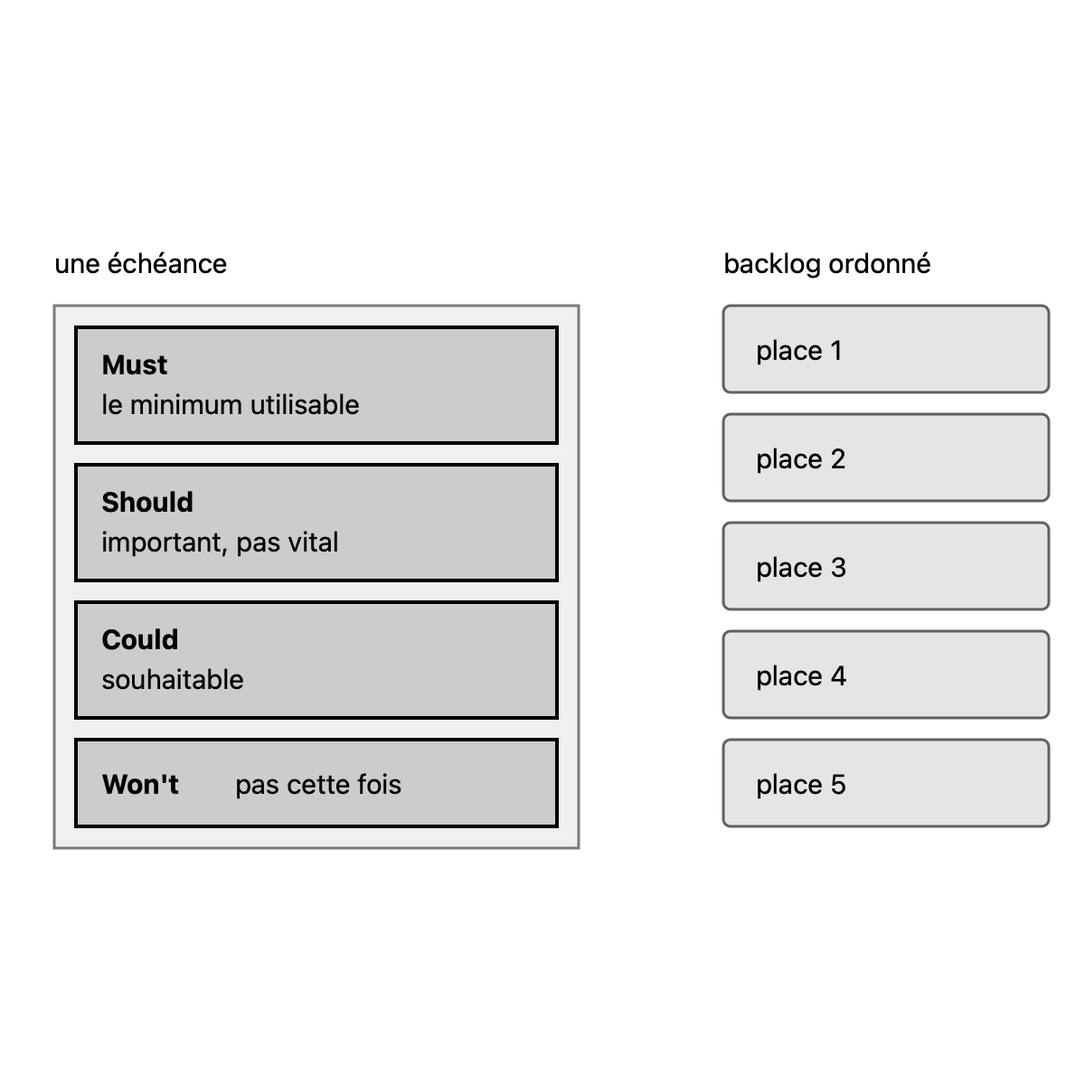
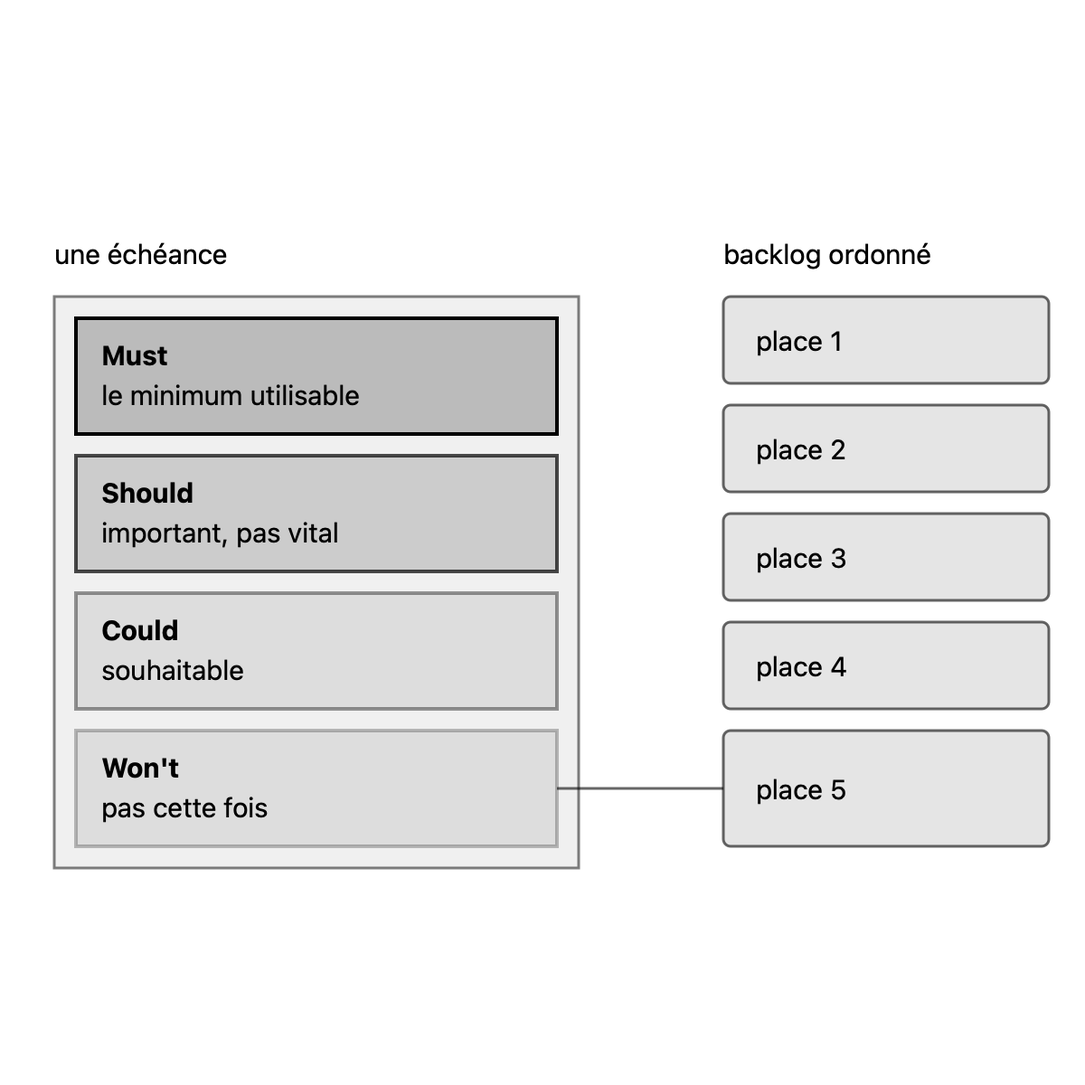
course(course:parcours-po): fix the review findings of concept 13

Changed region(s): [[0.0308, 0.2158, 0.6475, 0.8017], [0.6475, 0.2158, 0.9867, 0.8017]]

diff --git a/courses/parcours-po/concepts/13-ordonner-backlog/sources.md b/courses/parcours-po/concepts/13-ordonner-backlog/sources.md
@@ -1,6 +1,6 @@
 Ce fichier couvre ce que le fichier du concept affirme (`concepts/01-produit-et-po/sources.md` et
 `concepts/03-backlog-produit/sources.md` renvoient ici la source des critères pour ordonner). Les faits du fil rouge (Maud, Étienne, Charlotte, Pia, la DSI, le bilan
-au conseil, fait F-a) sont inventés et n'ont pas de source.
+au conseil) sont inventés et n'ont pas de source.
 
 ## Affirmations
 
@@ -9,19 +9,19 @@ au conseil, fait F-a) sont inventés et n'ont pas de source.
 | Le PO répond de l'ordre du backlog (L'essentiel, Consensus et choix d'école, 13a) | [S1] | « Ordering Product Backlog items » figure parmi les quatre points de « effective Product Backlog management » dont le PO répond. Déjà enseigné en 1b et 3a (`concepts/01-produit-et-po/concept.md`, `concepts/03-backlog-produit/concept.md`) : renvoi, pas de réenseignement | consensus |
 | Le Scrum Guide 2020 confie l'ordre au PO sans dire comment ordonner (Consensus et choix d'école, 13a) | [S1] | Texte téléchargé et cherché (« order », « ordering », « ordered », « risk », « dependenc », « size ») : aucune phrase ne donne de critère pour ordonner. Seules mentions : le PO « orders the work », l'ordre est un attribut que le travail de préparation ajoute (« a description, order, and size »), et au Sprint Planning le PO prépare « the most important Product Backlog items and how they map to the Product Goal » | consensus |
 | Les versions antérieures du Scrum Guide nommaient des critères, retirés depuis (Consensus et choix d'école, 13a) | [S2], [S3], [S4] | Guide d'octobre 2011, p. 13 : « The Product Backlog is often ordered by value, risk, priority, and necessity. » (« often » : une pratique courante, pas une règle). Guide de 2010 (copie tierce) : « Priority is driven by risk, value, and necessity. » Guides de 2013, 2016 et 2017 : la phrase a disparu ; il reste les attributs « description, order, estimate and value ». Guide 2020 : aucun critère. Le passage de « prioritized » à « ordered » date de 2011 [S5] (déjà sourcé en 3a) | consensus |
-| L'ordre se justifie par l'objectif produit (13a) | [S1] | « The Product Goal is in the Product Backlog » ; « the most important Product Backlog items and how they map to the Product Goal ». Déjà sourcé en 3a (choix du cours) : renvoi | cours |
-| Qui veut changer l'ordre convainc le PO ; pas de vote (Consensus et choix d'école ; 13a ; Banque d'exemples) | [S1] | « Those wanting to change the Product Backlog can do so by trying to convince the Product Owner » ; « the entire organization must respect their decisions. These decisions are visible in the content and ordering of the Product Backlog ». Que l'ordre d'arrivée ou la voix la plus forte ne soient pas des critères : choix du cours à partir de ces phrases et des critères ci-dessous. Déjà enseigné en 1b : renvoi | consensus |
+| L'ordre se justifie par l'objectif produit (13a) | [S1] ; `concepts/03-backlog-produit/sources.md` | « The Product Goal is in the Product Backlog » ; « the most important Product Backlog items and how they map to the Product Goal ». Déjà sourcé en 3a (choix du cours) : renvoi | cours |
+| Qui veut changer l'ordre convainc le PO ; pas de vote (Consensus et choix d'école ; 13a ; Banque d'exemples) | [S1] ; `concepts/01-produit-et-po/sources.md` | « Those wanting to change the Product Backlog can do so by trying to convince the Product Owner » ; « the entire organization must respect their decisions. These decisions are visible in the content and ordering of the Product Backlog ». Que l'ordre d'arrivée ou la voix la plus forte ne soient pas des critères : choix du cours à partir de ces phrases et des critères ci-dessous. Déjà enseigné en 1b : renvoi | consensus |
 | Le PO peut porter les besoins de plusieurs parties prenantes dans le backlog (13a, demandes de Maud, Étienne, Charlotte, Pia) | [S1] | « The Product Owner may represent the needs of many stakeholders in the Product Backlog. » | consensus |
 | Le coût vient des Developers : ce sont eux qui estiment (L'essentiel, 13a) | [S1], [S2], [S4], [S8] | SG 2020 : « The Developers who will be doing the work are responsible for the sizing. » SG 2011 à 2017 : « The Development Team is responsible for all estimates. » Les deux : le PO peut influencer les Developers « by helping them understand and select trade-offs ». Le PO se sert des estimations pour ordonner : Rubin, « The product owner uses these estimates to help determine a product backlog item's priority » [S8] | consensus |
 | La prévision « pour quand ? » n'est pas l'objet du concept (Consignes) | [S1] | SG 2020 : « Various practices exist to forecast progress, like burn-downs, burn-ups, or cumulative flows. » Le concept 16 portera cette source |  |
 | Critères pour ordonner : valeur, coût, risque, dépendances ; une pratique établie, pas le texte du Scrum Guide (L'essentiel, Consensus et choix d'école, 13a) | [S6] ; [S2] ; [S7] ; [S19] | Mountain Goat Software (Cohn), cinq facteurs : « Value », « Cost », « Learning », « Risk », « Dependencies ». Le cours en retient quatre ; l'apprentissage (ce que l'équipe apprend en faisant l'élément) relève du concept 17 (hypothèses et exploration) : à nommer comme cinquième facteur chez Cohn si l'apprenant le demande, sans l'enseigner ici. Le Scrum Guide de 2011 nommait déjà valeur et risque [S2]. Appui indépendant de Cohn : Roman Pichler [S19] pèse « value », « risk and uncertainty », « releasability » et « dependencies » (pas le coût en tant que tel ; les dépendances « influence the effort estimates ») ; Rubin relie l'estimation de taille à la place de l'élément [S8], mais son chapitre 6 ne donne pas de liste de critères. Pratique établie (Cohn, Pichler, reprises en [S7]), étiquetée comme telle : aucun texte de consensus ne l'impose | consensus |
 | Valeur : ce que l'élément apporte, rapporté à l'objectif produit (13a) | [S6], [S1] | Cohn : « Value is a measure of the usefulness or impact on a particular audience. » Rapporter la valeur à l'objectif produit : choix du cours (SG : « how they map to the Product Goal ») ; glossaire, ligne « Valeur » | cours |
 | Coût : surtout l'effort de l'équipe (13a) | [S6] | « The largest cost is usually the product team's effort to develop a feature. » La page ne dit pas qui estime ; c'est le Scrum Guide qui le dit (voir plus haut) | consensus |
-| Risque : un élément risqué qu'il faut faire se fait tôt (13a) | [S6] | « If something is risky and you need to do it, do it early. » Chez Cohn, le risque porte sur la réussite du produit (technique, calendrier) ; Pichler : « uncertain and risky items should be high priority » [S19]. Un risque de sécurité pour les abonnés (vélo signalé louable) est un autre sens du mot : le fichier du concept distingue les deux (risque pour le produit, risque pour les utilisateurs), voir la ligne suivante | consensus |
+| Risque : un élément risqué qu'il faut faire se fait tôt (13a) | [S6] ; [S19] | « If something is risky and you need to do it, do it early. » Chez Cohn, le risque porte sur la réussite du produit (technique, calendrier) ; Pichler : « uncertain and risky items should be high priority » [S19]. Un risque de sécurité pour les abonnés (vélo signalé louable) est un autre sens du mot : le fichier du concept distingue les deux (risque pour le produit, risque pour les utilisateurs), voir la ligne suivante | consensus |
 | Un risque de sécurité peut passer devant l'objectif produit, sans que le PO juge seul de sa gravité : Maud, puis Odile, la qualifient (13a ; Banque d'exemples) | [S9] en partie ; aucune pour le reste | DSDM range en Must Have ce sans quoi la livraison serait « Unsafe without it » ou « Not legal without it » [S9] : appui indirect, dans un autre cadre (MoSCoW pour une échéance). Que la gravité soit un fait métier que le PO fait qualifier par Maud (responsable maintenance) et Odile (directrice des opérations, qui encadre la maintenance) : choix du cours (l'apprenant ne tranche jamais un fait métier ; fil rouge, acteurs) ; voir « Non vérifié » | cours |
-| Dépendances : l'élément dont un autre dépend remonte (13a) | [S6] | « Some items may not be high priority on their own, but they're necessary for delivering other items. » Déjà sourcé en 10b1 (`concepts/10-hors-perimetre-dependances/sources.md`, [S5]) : renvoi | consensus |
+| Dépendances : l'élément dont un autre dépend remonte (13a) | [S6] ; `concepts/10-hors-perimetre-dependances/sources.md` | « Some items may not be high priority on their own, but they're necessary for delivering other items. » Déjà sourcé en 10b1 (`concepts/10-hors-perimetre-dependances/sources.md`, [S5]) : renvoi | consensus |
 | Un élément qui n'est pas prêt (accès aux données non obtenu, règle non fixée) ne peut pas être choisi pour le prochain sprint ; cela pèse sur l'ordre (13a2 ; Banque d'exemples) | [S1] ; `concepts/11-dor-dod/sources.md` | SG 2020 : « Product Backlog items that can be Done by the Scrum Team within one Sprint are deemed ready for selection in a Sprint Planning event. » La DoR de l'équipe vélos (accès obtenu, règles fixées, dépendances identifiées) est un fait du fil rouge ; la DoR elle-même est un choix d'école, sourcé en 11b (`concepts/11-dor-dod/sources.md`). Que « prêt » pèse sur l'ordre (ce qui n'est pas prêt ne peut pas être fait ensuite, et l'ordre fait alors remonter ce qui le rend prêt : obtenir l'accès, faire fixer la règle) : choix du cours | cours |
-| Une demande sortie du hors périmètre ne se traite pas aussitôt : elle entre au backlog et s'ordonne face au reste (13a ; Banque d'exemples) | [S1] ; [S10] | SG : backlog « single source of work » ; décisions du PO visibles dans l'ordre. Exemple éprouvé : amélioration de session (`concepts/13-ordonner-backlog/concept.md`, historique git) (2026-10-21) ; erreur observée : observation d'une session, un apprenant, `[c13]` (supposait qu'une demande sortie du hors périmètre se traite aussitôt). Déjà posé en 3 et 10a2 : renvoi |  |
+| Une demande sortie du hors périmètre ne se traite pas aussitôt : elle entre au backlog et s'ordonne face au reste (13a ; Banque d'exemples) | [S1] ; [S10] | SG : backlog « single source of work » ; décisions du PO visibles dans l'ordre. Exemple éprouvé : amélioration de session (`course/concepts/13-ordonner-backlog.md` du dépôt gelé, historique git) (2026-10-21) ; erreur observée : observation d'une session, un apprenant, `[c13]` (supposait qu'une demande sortie du hors périmètre se traite aussitôt). Déjà posé en 3 et 10a2 : renvoi |  |
 | Ordonner, c'est choisir : mettre tout en tête n'ordonne rien (13a ; Pièges) | [S1], [S5] ; `concepts/03-backlog-produit/sources.md` | Liste ordonnée, pas de priorités ex aequo : déjà sourcé en 3a (`concepts/03-backlog-produit/sources.md`). Choix du cours | cours |
 | Le coût du retard : ce qu'on perd à livrer plus tard ; Reinertsen en fait la mesure économique à quantifier ; choix d'école (L'essentiel, Consensus et choix d'école, 13b) | [S11], [S12], [S13] | Reinertsen, *The Principles of Product Development Flow: Second Generation Lean Product Development*, Celeritas Publishing, 2009 : chapitre 1 (extrait diffusé par l'éditeur) : « the only way to comprehend the economic importance of queues is to quantify the cost of delay » ; « Without a cost of delay, queues appear to be free ». Arnold et Yüce : « The Cost of Delay of a feature is the value that could be generated over a given period of time, if it was available immediately » (cité par [S13], secondaire). Le terme vient du développement de produit (Reinertsen, déjà avec Smith en 1998 d'après [S13]) ; aucun texte de consensus Scrum ne l'emploie | école |
 | Raisonner en forme de coût sans chiffrer, comme Arnold le propose pour commencer : valeur et urgence en bandes qualitatives ; Arnold chiffre ensuite (CD3) (Consensus et choix d'école, 13b) | [S12] | Arnold (Black Swan Farming), « Qualitative Cost of Delay » : bandes de valeur (« Killer », « Bonus », « Meh ») et d'urgence (« ASAP », « Soon », « Whenever ») ; l'auteur prévient qu'une approche qualitative « would lack many of the benefits of a quantitative approach » : c'est un point de départ. Choix d'école d'Arnold, qui ne s'y arrête pas : voir la ligne WSJF (CD3). Le fichier du concept dit « propose de commencer sans chiffres », pas « raisonne sans chiffres » | école |
@@ -29,11 +29,12 @@ au conseil, fait F-a) sont inventés et n'ont pas de source.
 | WSJF : coût du retard divisé par la durée (ou la taille) ; repris par SAFe ; cité sans être enseigné (13b) | [S14] ; [S12] | SAFe : WSJF « estimated as the relative cost of delay divided by the relative job duration » ; composantes du coût du retard chez SAFe : valeur pour l'utilisateur et l'entreprise, criticité dans le temps, réduction du risque et ouverture d'opportunités. Arnold appelle la même idée CD3 (« Cost of Delay Divided by Duration »). Source primaire de SAFe, éditeur qui vend certifications et formations : marketing | école |
 | MoSCoW : Must Have, Should Have, Could Have, Won't Have ; choix d'école de DSDM (L'essentiel, Consensus et choix d'école, 13c) | [S9] | Quatre catégories. Must Have : « Minimum Usable SubseT » que le projet garantit ; Should Have : « Important but not vital » ; Could Have : « Wanted or desirable but less important », première réserve qu'on lâche si l'échéance est menacée ; Won't Have : « at least not this time around ». Page de l'Agile Business Consortium (qui tient DSDM), datée du 28 mai 2026 ; déjà vérifiée | école |
 | Won't Have veut dire « pas cette fois », pas « jamais » (13c) | [S9] | « Won't Have (this time) » ; « at least not this time around » ; les Won't Have sont notés pour clarifier le périmètre ; à la fin de chaque incrément, ce qui n'a pas été livré est reclassé pour le suivant | école |
+| Ce qui est classé Won't reste au backlog, à sa place dans l'ordre (13c) | [S9] ; [S1] | À la fin de chaque incrément, ce qui n'a pas été livré est reclassé pour le suivant [S9] ; le backlog reste une liste ordonnée [S1]. Que le Won't y garde sa place : choix du cours à partir de ces deux phrases | cours |
 | MoSCoW se rapporte à une échéance (un délai fixé), pas à tout le backlog (13c ; Pièges) | [S9] ; [S1] | DSDM l'emploie quand le temps est fixé (section « MoSCoW Relating to a Specific Timeframe » ; niveaux : projet, incrément, timebox). Que MoSCoW ne remplace pas l'ordre (quatre catégories laissent des ex aequo ; le backlog reste une liste ordonnée) : choix du cours à partir du SG (« ordered list ») et de 3a. Glossaire du cours : « priorité » seulement pour MoSCoW | école |
 | Pas plus de 60 % de l'effort en Must Have (13c ; Pièges) | [S9] | « typically no more than 60% Must Have effort » ; au-delà, risque, sauf conditions (estimations fiables, approche bien connue). Choix d'école de DSDM, à citer comme tel | école |
 | Tout classer en Must vide la méthode (13c, piège « tout en Must ») | [S9] | « Believing everything is a Must Have is often symptomatic of insufficient decomposition of requirements » ; si tout était Must, la souplesse de MoSCoW « would no longer work » | école |
 | Le représentant de l'activité concernée (Business Visionary chez DSDM) dit ce qui est Must : ce que Charlotte classe en Must pour le bilan au conseil relève d'elle ; le PO l'aide à classer, il ne décide pas à sa place de ce que le conseil attend (13c) | [S9] en partie | Chez DSDM, le Business Visionary (ou le Business Ambassador qu'il mandate) explique pourquoi un besoin est un Must Have ; l'équipe répartit les priorités du timebox. Transposé à Charlotte (financeur, qui présente le bilan) : choix du cours, cohérente avec la règle du fil rouge (l'apprenant ne tranche pas un fait métier) | cours |
-| MoSCoW est attribué à Dai Clegg (1994) (Consensus et choix d'école ; 13c) | [S17], [S18] | Le livre existe : Clegg (avec Richard Barker), *CASE Method Fast-Track: A RAD Approach*, Addison-Wesley et Oracle (coéditeurs), 1994, ISBN 0-201-62432-X (Open Library). Que MoSCoW vienne de ce livre et de Clegg : sources secondaires concordantes (Wikipédia, d'autres reprises) ; livre non lu. « Chez Oracle » : appuyé par la coédition Oracle du livre. Usage étendu dans DSDM « from 2002 » d'après Wikipédia. Formuler : « attribué à Dai Clegg (1994), repris par DSDM » |  |
+| MoSCoW est attribué à Dai Clegg (1994) (Consensus et choix d'école ; 13c) | [S17], [S18] | Le livre existe : Clegg (avec Richard Barker), *CASE Method Fast-Track: A RAD Approach*, Addison-Wesley et Oracle (coéditeurs), 1994, ISBN 0-201-62432-X (Open Library). Que MoSCoW vienne de ce livre et de Clegg : sources secondaires concordantes (Wikipédia, d'autres reprises) ; livre non lu. « Chez Oracle » : appuyé par la coédition Oracle du livre. Usage étendu dans DSDM « from 2002 » d'après Wikipédia. Formuler : « attribué à Dai Clegg (1994), repris par DSDM » | école |
 
 ## Références
 
@@ -48,7 +49,7 @@ au conseil, fait F-a) sont inventés et n'ont pas de source.
 | S7 | Reprises de ces critères : Mountain Goat Software, « Product Backlog Guide » (valeur, urgence, risque, apprentissage, dépendances, coût du retard) ; forum Scrum.org (« priority, cost of delay, risk, value, dependencies ») | https://www.mountaingoatsoftware.com/agile/product-backlog ; https://www.scrum.org/forum/scrum-forum/50309/new-product-how-prioritise-when-po-prioritises-all-features-high-priority | secondaire (extraits de recherche ; forum : avis de praticiens) | 2026-10-22 |
 | S8 | Rubin, *Essential Scrum*, Addison-Wesley, 2012, chapitre 6 « Product Backlog » (extraits publiés par l'auteur) | https://innolution.com/essential-scrum/table-of-contents/chapter-6-product-backlog | primaire (extraits de l'auteur) | 2026-10-22 (déjà cité dans `concepts/03-backlog-produit/sources.md`) |
 | S9 | Agile Business Consortium, « MoSCoW Prioritisation » (DSDM Agile Project Framework), page datée du 28 mai 2026 | https://www.agilebusiness.org/resource/what-is-moscow-prioritization | primaire (organisme qui tient DSDM et vend ses certifications) | 2026-10-22 (déjà vérifiée ; relue) |
-| S10 | Observations de session : amélioration de session (`concepts/13-ordonner-backlog/concept.md`, historique git) ; observations d'une session, un apprenant (`[c13]` : une demande sortie du hors périmètre traitée aussitôt, « c'est le bon moment » ; `[général]` : réponses justes mais sans la suite) | (dépôt) | primaire (interne : un seul apprenant : base faible) | 2026-10-22 |
+| S10 | Observations de session : amélioration de session (`course/concepts/13-ordonner-backlog.md` du dépôt gelé, historique git) ; observations d'une session, un apprenant (`[c13]` : une demande sortie du hors périmètre traitée aussitôt, « c'est le bon moment » ; `[général]` : réponses justes mais sans la suite) | (dépôt) | primaire (interne : un seul apprenant : base faible) | 2026-10-22 |
 | S11 | Reinertsen, *The Principles of Product Development Flow: Second Generation Lean Product Development*, Celeritas Publishing, 2009 (table des matières et chapitre 1 diffusés par l'éditeur ; fiche Amazon pour l'éditeur, la date et l'ISBN 978-1935401001) | http://lpd2.com/wp-content/uploads/2013/06/ReinertsenFLOWChap1.pdf ; https://www.amazon.com/dp/1935401009 | primaire (extrait de l'auteur) ; livre non lu au-delà du chapitre 1 | 2026-10-22 |
 | S12 | Black Swan Farming (site de Joshua Arnold, pages sans signature) : « Cost of Delay », « Qualitative Cost of Delay » (graphiques de février 2016), « Urgency Profiles », « Cost of Delay Divided by Duration » | https://blackswanfarming.com/cost-of-delay/ ; https://blackswanfarming.com/qualitative-cost-delay ; https://blackswanfarming.com/urgency-profiles/ ; https://blackswanfarming.com/cost-of-delay-divided-by-duration | primaire (site de l'auteur, qui vend du conseil) | 2026-10-22 |
 | S13 | Arnold, Yüce, « Black Swan Farming using Cost of Delay: Discover, Nurture and Speed Up Delivery of Value », rapport d'expérience, Agile 2013 (programme) ; reprises : votito.com, « Cost of Delay » ; xprocess (Carmichael), « Understanding Cost of Delay and its Use in Kanban », avril 2016 | https://agile2013.sched.com/event/14o4ZPP ; https://www.votito.com/methods/cost-of-delay ; https://xprocess.blogspot.com/2016/04/understanding-cost-of-delay-and-its-use.html | secondaire (programme de conférence et reprises ; rapport non lu) | 2026-10-22 |

diff --git a/construction/notes/S1-10-13-report.md b/construction/notes/S1-10-13-report.md
@@ -235,10 +235,11 @@ Check after the corrections: `mise exec -- node specs/linear-course/checks/check
 - `sources` S10 (rule on #23, reference type « interne »): written « primaire (interne : un seul apprenant : base faible) ».
 - `sources` S19 (rule C): attached to the claim it supports, the row « Critères pour ordonner : valeur, coût, risque, dépendances » (concept.md cites S19 for Pichler on that list, in the Pratique établie stance and in the course stance on the same list). Not removed. The other row naming S19 (risque) keeps its mention in its verification. No frozen file read.
 - Diagrams redrawn against SPEC.md 7.2 (review of waves 3 and 4): one-sentence captions (the 3 two- and three-sentence captions are gone); no teaching sentence in an SVG (notes, mot de la fin, « rappel » lines removed); the subject is the most marked element and the contrast is `secondary`; labels and keys only from concept.md.
-  - `ordonner-une-place.svg` (13a2): now one idea, a column of four places with the not-ready one dashed and labelled « pas prête ». The four criteria and the objectif produit, drawn in the old p="a", are carried by the reader text of 13a1 (the four bullets and the Fil rouge); the lock icon is dropped (no icon). Title and caption changed with it.
+  - `ordonner-une-place.svg` (13a2): now one idea, a column of four places with the not-ready one marked « pas prête » (caption: one place each, one not ready). The four criteria and the objectif produit, drawn in the old p="a", are carried by the reader text of 13a1 (the four bullets and the Fil rouge); the lock icon is dropped (no icon). Title and caption changed with it.
   - `formes-cout-retard.svg` (13b): the deadline curve is `secondary` (was `muted`), the notes « après l'échéance, valeur perdue » and « La forme, pas les chiffres. » removed; the idea of the fall is the drawn curve and the reader text.
-  - `moscow-echeance-backlog-ordonne.svg` (13c): one idea, MoSCoW for a deadline beside the ordered backlog; the 60 % ceiling and the Won't that stays in the backlog (old p="c") are carried by the reader text of 13c, no longer drawn. The backlog is `secondary`.
-- Each idea of the old `p` variants is drawn or carried by the reader text: p="a" (criteria, readiness: 13a1 and 13a2 text), p="b" (two shapes: drawn; fall after the deadline: drawn), p="c" (60 %, Won't stays: 13c text).
+  - `moscow-echeance-backlog-ordonne.svg` (13c): one idea, MoSCoW for a deadline beside the ordered backlog; the bins are a series (opacity 1, 0.7, 0.4, 0.25), the Won't bin is linked to place 5 of the backlog, which is `secondary`. The 60 % ceiling (old p="c") is carried by the reader text of 13c, no longer drawn. The review found that the reader text did not say that a Won't stays in the backlog: one sentence added to 13c, with a new row in sources.md (S9, S1).
+- Each idea of the old `p` variants is drawn or carried by the reader text: p="a" (criteria, readiness: 13a1 and 13a2 text), p="b" (two shapes: drawn; fall after the deadline: drawn), p="c" (60 %: 13c text; Won't stays in the backlog: 13c text, sentence added after the review, and drawn as the link from the Won't bin to place 5).
 - `sources.md`: first columns name sections of concept.md or teaching.md; « renvoi » cells in the source column became paths; the internal task id removed; two rows whose verification names « choix du cours » now have the Nature cours.
 - `teaching.md`: Schéma describes the new drawings, keeps the old metaphor for 13a1 (no diagram), and no longer says when to show a drawing; « Faits du fil rouge utilisés » starts with a capital.
 - `glossary-order`: ok here; rule A (#166) applies if it later fails.
+- Fresh-agent review: 1 blocking finding (the Won't that stays in the backlog, lost), fixed as above; non-blocking: place 2 label muted, series opacities, Schéma entries named by file, sources.md rows (paths, S19 on the risk row, Clegg Nature école, frozen file named, « fait F-a » dropped).

diff --git a/courses/parcours-po/concepts/13-ordonner-backlog/teaching.md b/courses/parcours-po/concepts/13-ordonner-backlog/teaching.md
@@ -226,21 +226,27 @@ du fil rouge.
 
 ## Schéma
 
+Les schémas déclarés, un par sous-concept qui en a un, et la métaphore pour ceux qui n'en ont pas. Tu ne montres un schéma que si l'apprenant le demande.
+
 **13a1, les quatre critères (aucun schéma déclaré : la métaphore reste pour toi).** Une colonne
 de quatre cartes, une par place, pas de cartes côte à côte. À droite de chaque carte, quatre
 pastilles : valeur (face à l'objectif produit, en haut du panneau comme un cap), coût (« estimé
 par les Developers »), risque (deux moitiés : « pour le produit », « pour les utilisateurs,
 qualifié par qui en répond »), dépendances. Légende : « une place par carte, un pourquoi par
 place ».
-**13a2, une colonne de quatre demandes, dont une pas prête.** Quatre cartes empilées, « place 1 »
-à « place 4 », une demande par place. La carte de la place 2 est en pointillé, marquée « pas
-prête » : c'est la seule qui ressort.
-**13b, deux formes de coût du retard.** Un graphique sans graduation, le temps en abscisse et le
-coût du retard en ordonnée. Une droite qui monte dès le départ, « coût qui grandit dès
-aujourd'hui » ; une courbe presque plate qui monte de plus en plus vite jusqu'à un trait vertical
-« échéance », puis retombe, « coût lié à une échéance ». La clé nomme les deux traits.
-**13c, MoSCoW et le backlog.** À gauche, une boîte « une échéance » avec quatre bacs empilés,
-Must (« le minimum utilisable »), Should (« important, pas vital »), Could (« souhaitable »),
-Won't (« pas cette fois ») ; à droite, « backlog ordonné », une colonne de cinq cartes, « place 1 »
-à « place 5 ». Le plafond d'environ 60 % de l'effort en Must (DSDM) et le Won't qui reste dans
-le backlog ne sont pas dessinés : tu les dis si l'apprenant le demande.
+
+**13a2, `ordonner-une-place.svg`.** Quatre cartes empilées, « place 1 » à « place 4 », une demande
+par place. La carte de la place 2, marquée « pas prête », est la seule qui ressort.
+
+**13b, `formes-cout-retard.svg`.** Un graphique sans graduation, le temps en abscisse et le coût
+du retard en ordonnée. Une droite qui monte dès le départ, « coût qui grandit dès aujourd'hui » ;
+une courbe presque plate qui monte de plus en plus vite jusqu'à un trait vertical « échéance »,
+puis retombe, « coût lié à une échéance ». La clé nomme les deux traits. Si l'apprenant le
+demande avant d'avoir répondu à la partie 1 de « Le blocage et le bilan au conseil », ne le
+montre pas avant sa réponse : le schéma la donnerait.
+
+**13c, `moscow-echeance-backlog-ordonne.svg`.** À gauche, une boîte « une échéance » avec quatre
+bacs empilés, Must (« le minimum utilisable »), Should (« important, pas vital »), Could
+(« souhaitable »), Won't (« pas cette fois ») ; à droite, « backlog ordonné », une colonne de
+cinq cartes, « place 1 » à « place 5 », le Won't relié à la place 5. Le plafond d'environ 60 % de
+l'effort en Must (DSDM) n'est pas dessiné : tu le dis si l'apprenant le demande.

diff --git a/courses/parcours-po/concepts/13-ordonner-backlog/concept.md b/courses/parcours-po/concepts/13-ordonner-backlog/concept.md
@@ -42,7 +42,7 @@ neighbors:
 diagrams:
   - file: ordonner-une-place.svg
     title: "Quatre demandes en colonne, dont une pas prête"
-    caption: "Quatre demandes en colonne, une place chacune : celle qui n'est pas prête est en pointillé."
+    caption: "Quatre demandes en colonne, une place chacune, dont une pas prête."
     subconcept: 13a2
   - file: formes-cout-retard.svg
     title: "Deux formes de coût du retard dans le temps"
@@ -119,7 +119,7 @@ DSDM recommande de ne pas dépasser environ 60 % de l'effort en Must : au-delà,
 
 ![MoSCoW pour une échéance, et le backlog qui reste ordonné](moscow-echeance-backlog-ordonne.svg)
 
-MoSCoW ne remplace pas l'ordre : quatre catégories laissent des ex aequo, alors que chaque élément du backlog a besoin d'une place unique. Un Must n'a de sens que face à une échéance. Pour le reste du backlog, il faut toujours un ordre.
+MoSCoW ne remplace pas l'ordre : quatre catégories laissent des ex aequo, alors que chaque élément du backlog a besoin d'une place unique. Un Must n'a de sens que face à une échéance. Pour le reste du backlog, il faut toujours un ordre. Ce qui est classé Won't reste au backlog, à sa place dans l'ordre [cours].
 
 ## Pièges
 
